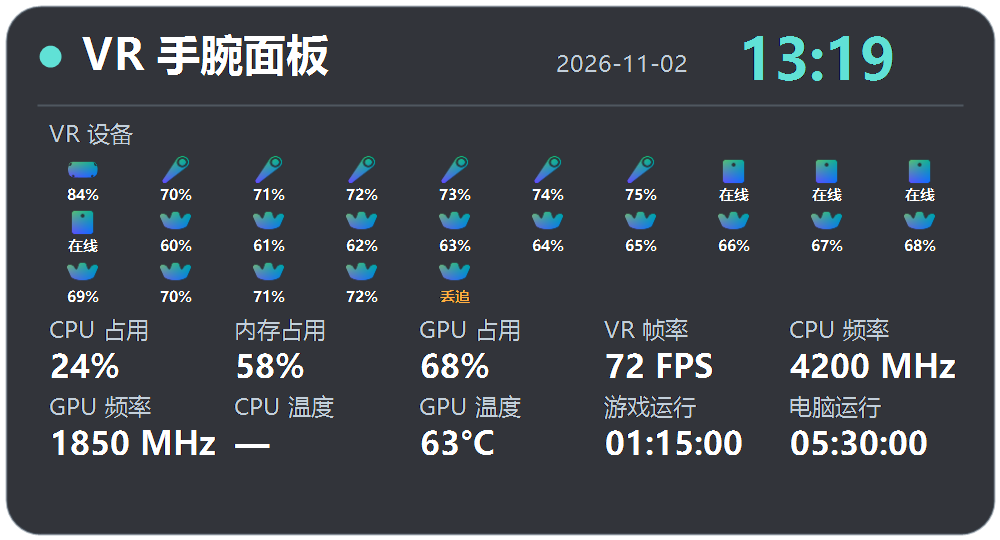
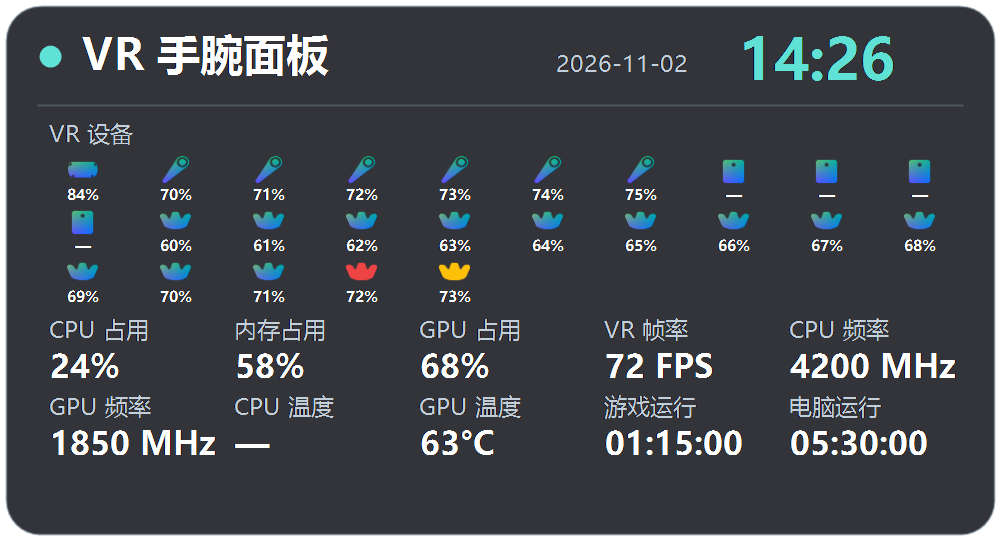
Show battery and color device tracking status

diff --git a/Program.cs b/Program.cs
@@ -78,7 +78,7 @@ namespace WristLite
                             Connected = true, Tracked = true });
                     for (int i = 0; i < 14; i++)
                         sample.Devices.Add(new DeviceInfo { Kind = "tracker", Battery = 60 + i,
-                            Connected = true, Tracked = i != 13 });
+                            Connected = i != 12, Tracked = i != 12 && i != 13 });
                 }
                 string file = Path.Combine(AppDomain.CurrentDomain.BaseDirectory,
                     preview25 ? settings.Appearance == "classic" ? "preview-25-classic.png"
@@ -418,10 +418,10 @@ namespace WristLite
                         int iconHeight = compact ? 29 : 43;
                         if (icon != null) DrawIconFit(g, icon,
                             new Rectangle(cellX + (cellWidth - iconWidth) / 2, cellY,
-                                iconWidth, iconHeight));
+                                iconWidth, iconHeight), DeviceIconTint(device));
                         using (StringFormat center = new StringFormat { Alignment = StringAlignment.Center })
-                            ShadowText(g, DeviceStatus(device), compact ? compactDeviceFont : deviceFont,
-                                device.Connected && !device.Tracked ? warning : muted,
+                            ShadowText(g, DeviceBatteryText(device), compact ? compactDeviceFont : deviceFont,
+                                muted,
                                 new RectangleF(cellX, cellY + (compact ? 29 : 45),
                                     cellWidth, compact ? 15 : 23), center);
                     }
@@ -490,9 +490,10 @@ namespace WristLite
                             int iconWidth = compact ? 36 : 50;
                             int iconHeight = compact ? 31 : 46;
                             if (icon != null) DrawIconFit(g, icon,
-                                new Rectangle(x + (92 - iconWidth) / 2, y, iconWidth, iconHeight));
-                            g.DrawString(DeviceStatus(device), compact ? compactDeviceFont : deviceFont,
-                                device.Connected && !device.Tracked ? warning : white,
+                                new Rectangle(x + (92 - iconWidth) / 2, y, iconWidth, iconHeight),
+                                DeviceIconTint(device));
+                            g.DrawString(DeviceBatteryText(device), compact ? compactDeviceFont : deviceFont,
+                                white,
                                 new RectangleF(x, y + iconHeight, 92, compact ? 19 : 26), center);
                         }
                     }
@@ -509,20 +510,39 @@ namespace WristLite
             return bitmap;
         }
 
-        private static string DeviceStatus(DeviceInfo device)
+        internal static string DeviceBatteryText(DeviceInfo device)
         {
-            if (!device.Connected) return "离线";
-            if (!device.Tracked) return "丢追";
-            return device.Battery < 0 ? "在线" : device.Battery + "%";
+            return device.Battery < 0 ? "—" : device.Battery + "%";
         }
 
-        private static void DrawIconFit(Graphics g, Bitmap icon, Rectangle bounds)
+        internal static Color? DeviceIconTint(DeviceInfo device)
+        {
+            if (!device.Connected) return Color.FromArgb(239, 68, 68);
+            if (!device.Tracked) return Color.FromArgb(255, 193, 7);
+            return null;
+        }
+
+        private static void DrawIconFit(Graphics g, Bitmap icon, Rectangle bounds, Color? tint = null)
         {
             float scale = Math.Min((float)bounds.Width / icon.Width, (float)bounds.Height / icon.Height);
             int width = Math.Max(1, (int)Math.Round(icon.Width * scale));
             int height = Math.Max(1, (int)Math.Round(icon.Height * scale));
-            g.DrawImage(icon, bounds.X + (bounds.Width - width) / 2,
+            var destination = new Rectangle(bounds.X + (bounds.Width - width) / 2,
                 bounds.Y + (bounds.Height - height) / 2, width, height);
+            if (!tint.HasValue) { g.DrawImage(icon, destination); return; }
+            Color color = tint.Value;
+            using (var attributes = new ImageAttributes())
+            {
+                attributes.SetColorMatrix(new ColorMatrix(new[] {
+                    new float[] { 0, 0, 0, 0, 0 },
+                    new float[] { 0, 0, 0, 0, 0 },
+                    new float[] { 0, 0, 0, 0, 0 },
+                    new float[] { 0, 0, 0, 1, 0 },
+                    new float[] { color.R / 255f, color.G / 255f, color.B / 255f, 0, 1 }
+                }));
+                g.DrawImage(icon, destination, 0, 0, icon.Width, icon.Height,
+                    GraphicsUnit.Pixel, attributes);
+            }
         }
 
         private static List<KeyValuePair<string, string>> Metrics(Settings settings, PanelData data)
@@ -603,7 +623,6 @@ namespace WristLite
             if (!device.Connected) return stem + "_off.png";
             if (device.Kind == "base") return stem + "_ready.png";
             if (device.Charging) return stem + "_ready_charging.png";
-            if (device.Battery >= 0 && device.Battery < 20) return stem + "_ready_low.png";
             return stem + "_ready.png";
         }
 
@@ -1150,6 +1169,8 @@ namespace WristLite
                      (poses[i].bPoseIsValid && poses[i].eTrackingResult == ETrackingResult.Running_OK));
                 if (!device.Connected)
                 {
+                    DeviceInfo previous;
+                    if (knownDevices.TryGetValue(i, out previous)) device.Battery = previous.Battery;
                     current.Devices.Add(device);
                     knownDevices[i] = device;
                     continue;

diff --git a/TriggerTests.cs b/TriggerTests.cs
@@ -130,6 +130,18 @@ namespace WristLite
                     "second RGBA pixel and alpha");
             }
             Expect(Renderer.MaxDevices == 25, "device capacity");
+            var offline = new DeviceInfo { Kind = "tracker", Battery = 72,
+                Connected = false, Tracked = false };
+            var lost = new DeviceInfo { Kind = "tracker", Battery = 73,
+                Connected = true, Tracked = false };
+            var normal = new DeviceInfo { Kind = "tracker", Battery = -1,
+                Connected = true, Tracked = true };
+            Expect(Renderer.DeviceBatteryText(offline) == "72%" &&
+                Renderer.DeviceBatteryText(lost) == "73%" &&
+                Renderer.DeviceBatteryText(normal) == "—", "battery label does not become tracking state");
+            Expect(Renderer.DeviceIconTint(offline).Value.R > 200 &&
+                Renderer.DeviceIconTint(lost).Value.G > 150 &&
+                !Renderer.DeviceIconTint(normal).HasValue, "icon color reflects tracking state");
             foreach (string appearance in new[] { "classic", "vrcx" })
             {
                 Expect(!RenderDevices(appearance, 24).SequenceEqual(RenderDevices(appearance, 25)),

diff --git a/README.md b/README.md
@@ -14,7 +14,7 @@
 - 可选双手、左手或右手，以及握持键或菜单键。
 - 可选“第一版（宽屏）”或“VRCX 素材（方形）”；首次使用默认第一版。
 - 在同一行显示年月日和时间，日期位于时间左侧；显示 VR 设备的图标、电量、连接与追踪状态；CPU、内存和 GPU 占用率，CPU 与 GPU 频率、温度，VR 帧率，以及 VRChat 和电脑运行时长。各项可在设置中开关。
-- 设备已连接但定位姿态无效时显示橙色“丢追”；断开时显示“离线”。如果 SteamVR 把设备从列表中移除，程序会在本次运行期间保留其离线图标。
+- 设备图标用颜色表示追踪状态：正常时使用原图，丢追时为黄色，断开时为红色。图标下方始终显示电量百分比；设备不提供电量时显示“—”。已知设备断开后保留最近一次读取到的电量。如果 SteamVR 把设备从列表中移除，程序会在本次运行期间保留其离线图标。
 - 两种界面最多显示 25 个 VR 设备图标。设备较多时自动缩小图标和状态字号，以容纳头显、手柄、追踪器和基站。
 - 参考 VRCX-0 的叠加层刷新顺序：将新画面上传到隐藏的叠加层，等待 SteamVR 的 `ImageLoaded` 事件后才显示新画面并隐藏旧画面；若收到 `ImageFailed` 则保留旧画面。这针对先前每秒刷新的闪动问题。程序会阻止同时运行多个 VRWristLite 或旧版 WristLite 实例。
 - 保留上一版的简洁设置窗口与原生下拉框；独立设计的程序图标已嵌入程序。

diff --git a/RELEASE_NOTES.md b/RELEASE_NOTES.md
@@ -1,9 +1,10 @@
-# VRWristLite v1.0.1
+# VRWristLite v1.0.2
 
-修复大量设备连接时，手腕面板未显示全部追踪器的问题。
+将电量和追踪状态分开展示，让设备状态更容易辨认。
 
-- 第一版宽屏与 VRCX 素材方形界面均最多显示 25 个 VR 设备图标。
-- 设备较多时自动缩小图标和状态字号，保留电量、离线与丢追提示。
-- 可用 `--preview-25-classic` 和 `--preview-25-vrcx` 检查高设备数量布局。
+- 图标下方始终显示电量百分比；无法读取电量时显示“—”。
+- 丢追设备图标显示黄色，断开设备图标显示红色；断开时保留最近一次电量读数。
+- 正常连接的低电量设备不再使用红色图标，避免与断开状态混淆。
+- 延续 v1.0.1 的最多 25 个设备布局。
 
-已在 Windows 上完成构建、自动逻辑检查和 25 个设备的静态画面检查。此版本尚待多设备头显实测。
+已在 Windows 上完成构建、自动检查和静态画面检查。此版本尚待头显实测。

diff --git a/PUBLISHING.md b/PUBLISHING.md
@@ -1,7 +1,7 @@
 # 发布步骤
 
 1. 将源码文件、`assets/` 和 `docs/` 提交到公开仓库 `UNLimitedFANTASY/VRWristLite`。不要提交本地生成的 `.exe` 或 `dist/`；`.gitignore` 已排除它们。
-2. 在 Windows 上运行 `./package-release.ps1`。脚本会构建程序、运行自动检查，并生成 `dist/VRWristLite-v1.0.1-win64.zip`。
-3. 创建 `v1.0.1` 标签和 GitHub Release。发布说明可使用 `RELEASE_NOTES.md`，附件上传第 2 步的 Windows 压缩包。
+2. 在 Windows 上运行 `./package-release.ps1`。脚本会构建程序、运行自动检查，并生成 `dist/VRWristLite-v1.0.2-win64.zip`。
+3. 创建 `v1.0.2` 标签和 GitHub Release。发布说明可使用 `RELEASE_NOTES.md`，附件上传第 2 步的 Windows 压缩包。
 4. 发布后可按需检查其他头显、控制器及 SteamVR 版本的兼容性。
 
